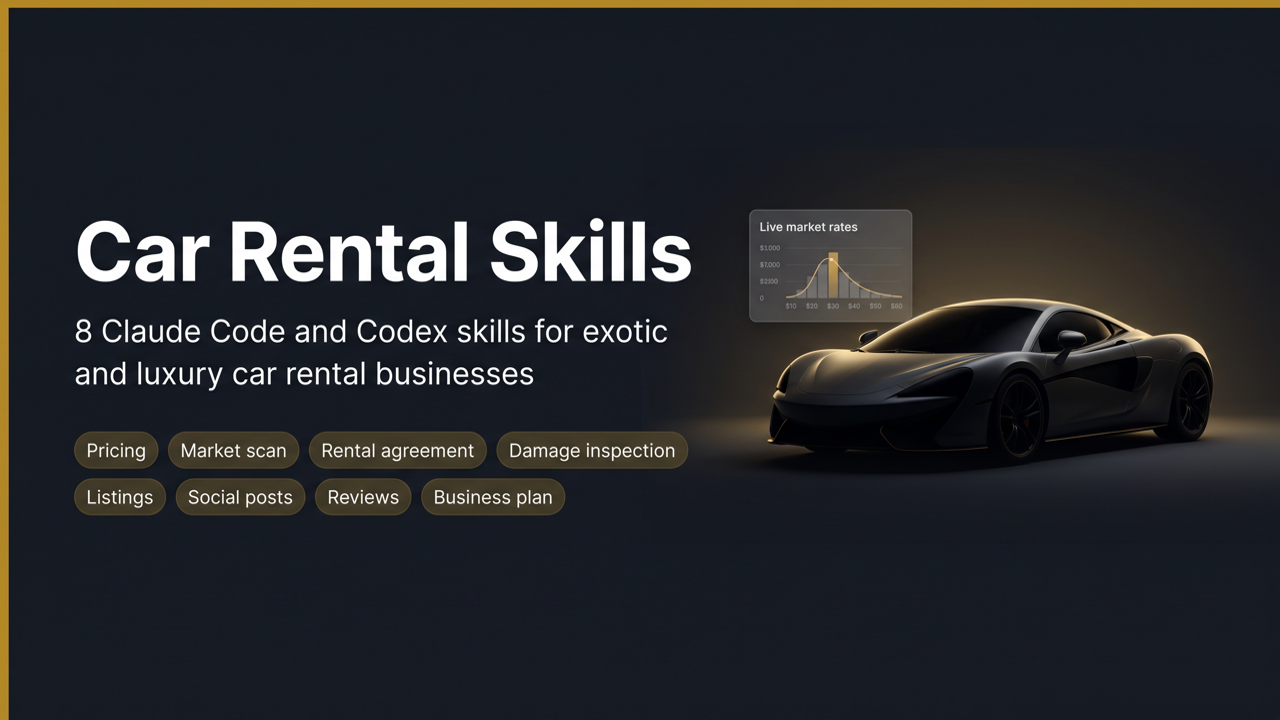
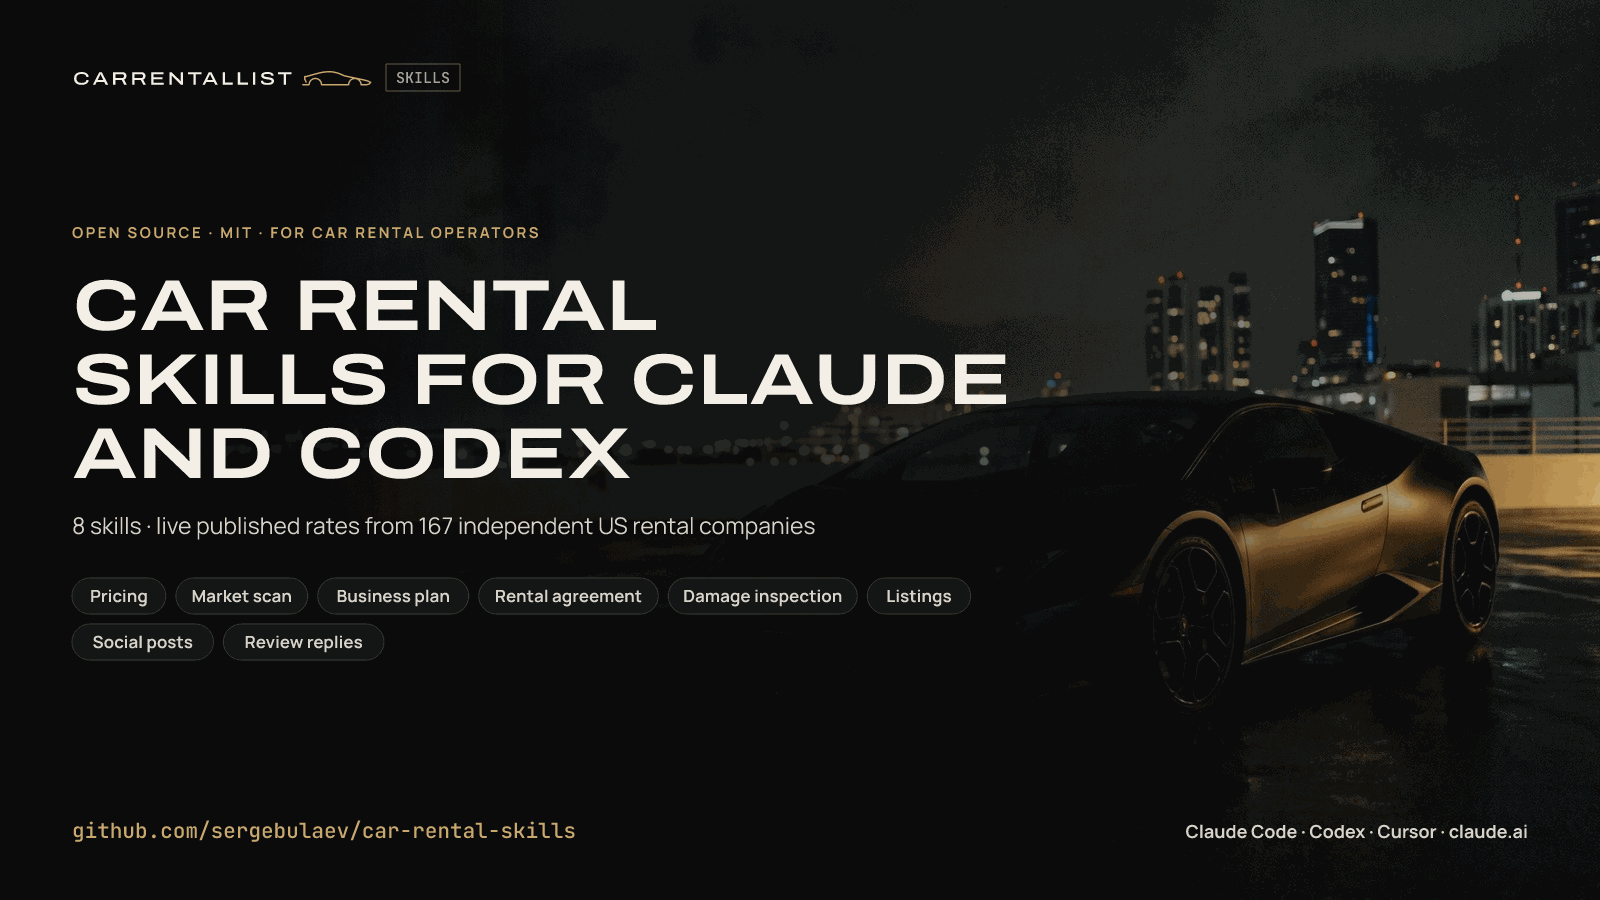
v1.0.1: hero and social preview in the CarRentalList site design

Changed region(s): [[0.0, 0.0, 1.0, 1.0], [0.0625, 0.0611, 0.2812, 0.0917]]

diff --git a/.codex-marketplace/car-rental-skills/README.md b/.codex-marketplace/car-rental-skills/README.md
@@ -1,5 +1,5 @@
 <p align="center">
-  <img src="assets/hero.png" alt="Car Rental Skills: 8 Claude Code and Codex skills for exotic and luxury car rental businesses, with live market rates" width="900" />
+  <img src="assets/hero.png" alt="CarRentalList car rental skills for Claude and Codex: 8 skills with live published rates from independent US rental companies" width="900" />
 </p>
 
 # Car Rental Business Skills for Claude Code and Codex

diff --git a/README.md b/README.md
@@ -1,5 +1,5 @@
 <p align="center">
-  <img src="assets/hero.png" alt="Car Rental Skills: 8 Claude Code and Codex skills for exotic and luxury car rental businesses, with live market rates" width="900" />
+  <img src="assets/hero.png" alt="CarRentalList car rental skills for Claude and Codex: 8 skills with live published rates from independent US rental companies" width="900" />
 </p>
 
 # Car Rental Business Skills for Claude Code and Codex
